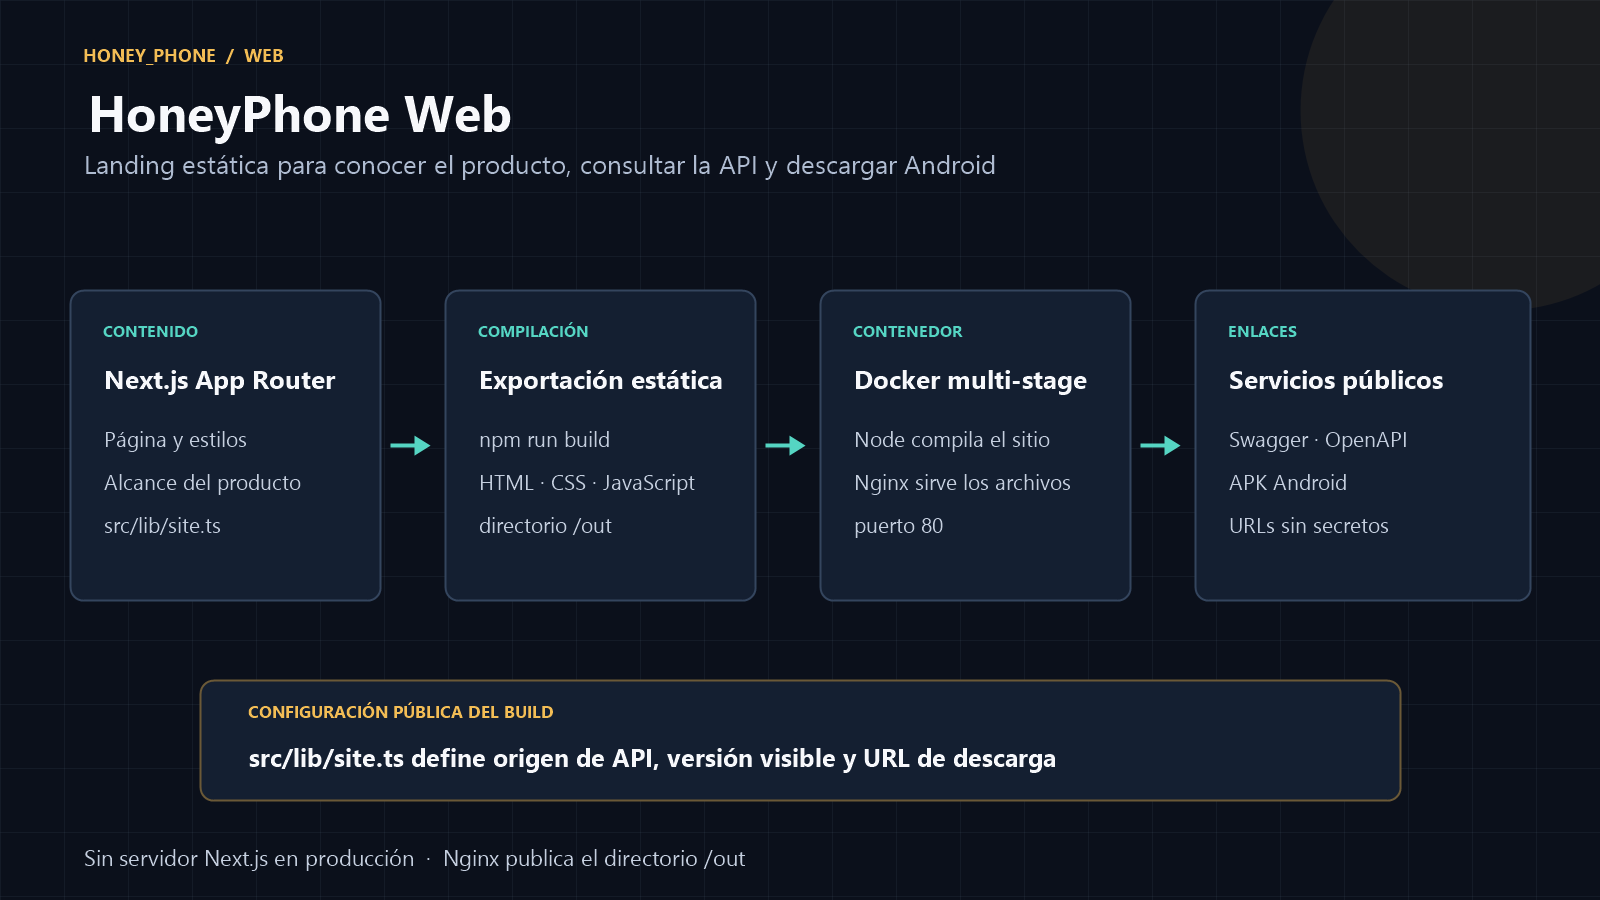
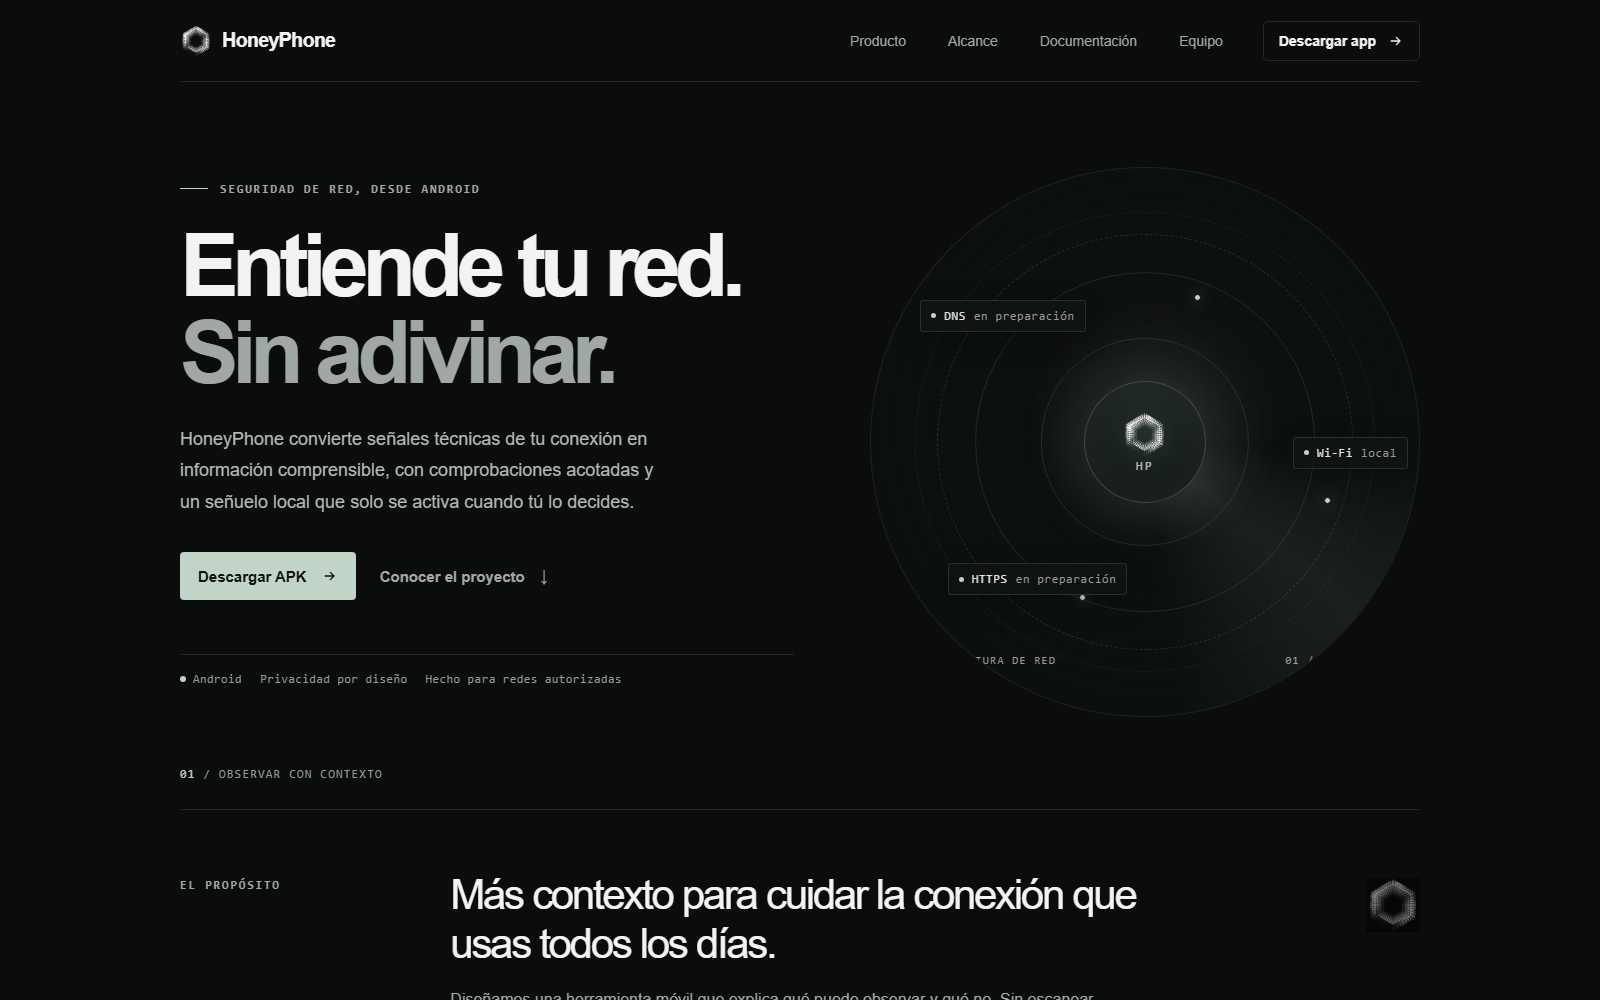
docs: replace previews with faithful product visuals

diff --git a/README.md b/README.md
@@ -6,7 +6,7 @@
 
 <p align="center"><strong>La puerta pública al proyecto HoneyPhone.</strong><br />Landing estática con Next.js · documentación de API · descarga Android</p>
 
-![Arquitectura de HoneyPhone Web](preview.png)
+![Captura de la landing pública de HoneyPhone](preview.png)
 
 Este repositorio contiene la landing pública de HoneyPhone. Presenta el propósito y alcance del producto, resume sus funciones y enlaza a la documentación de la API y al APK Android.
 
